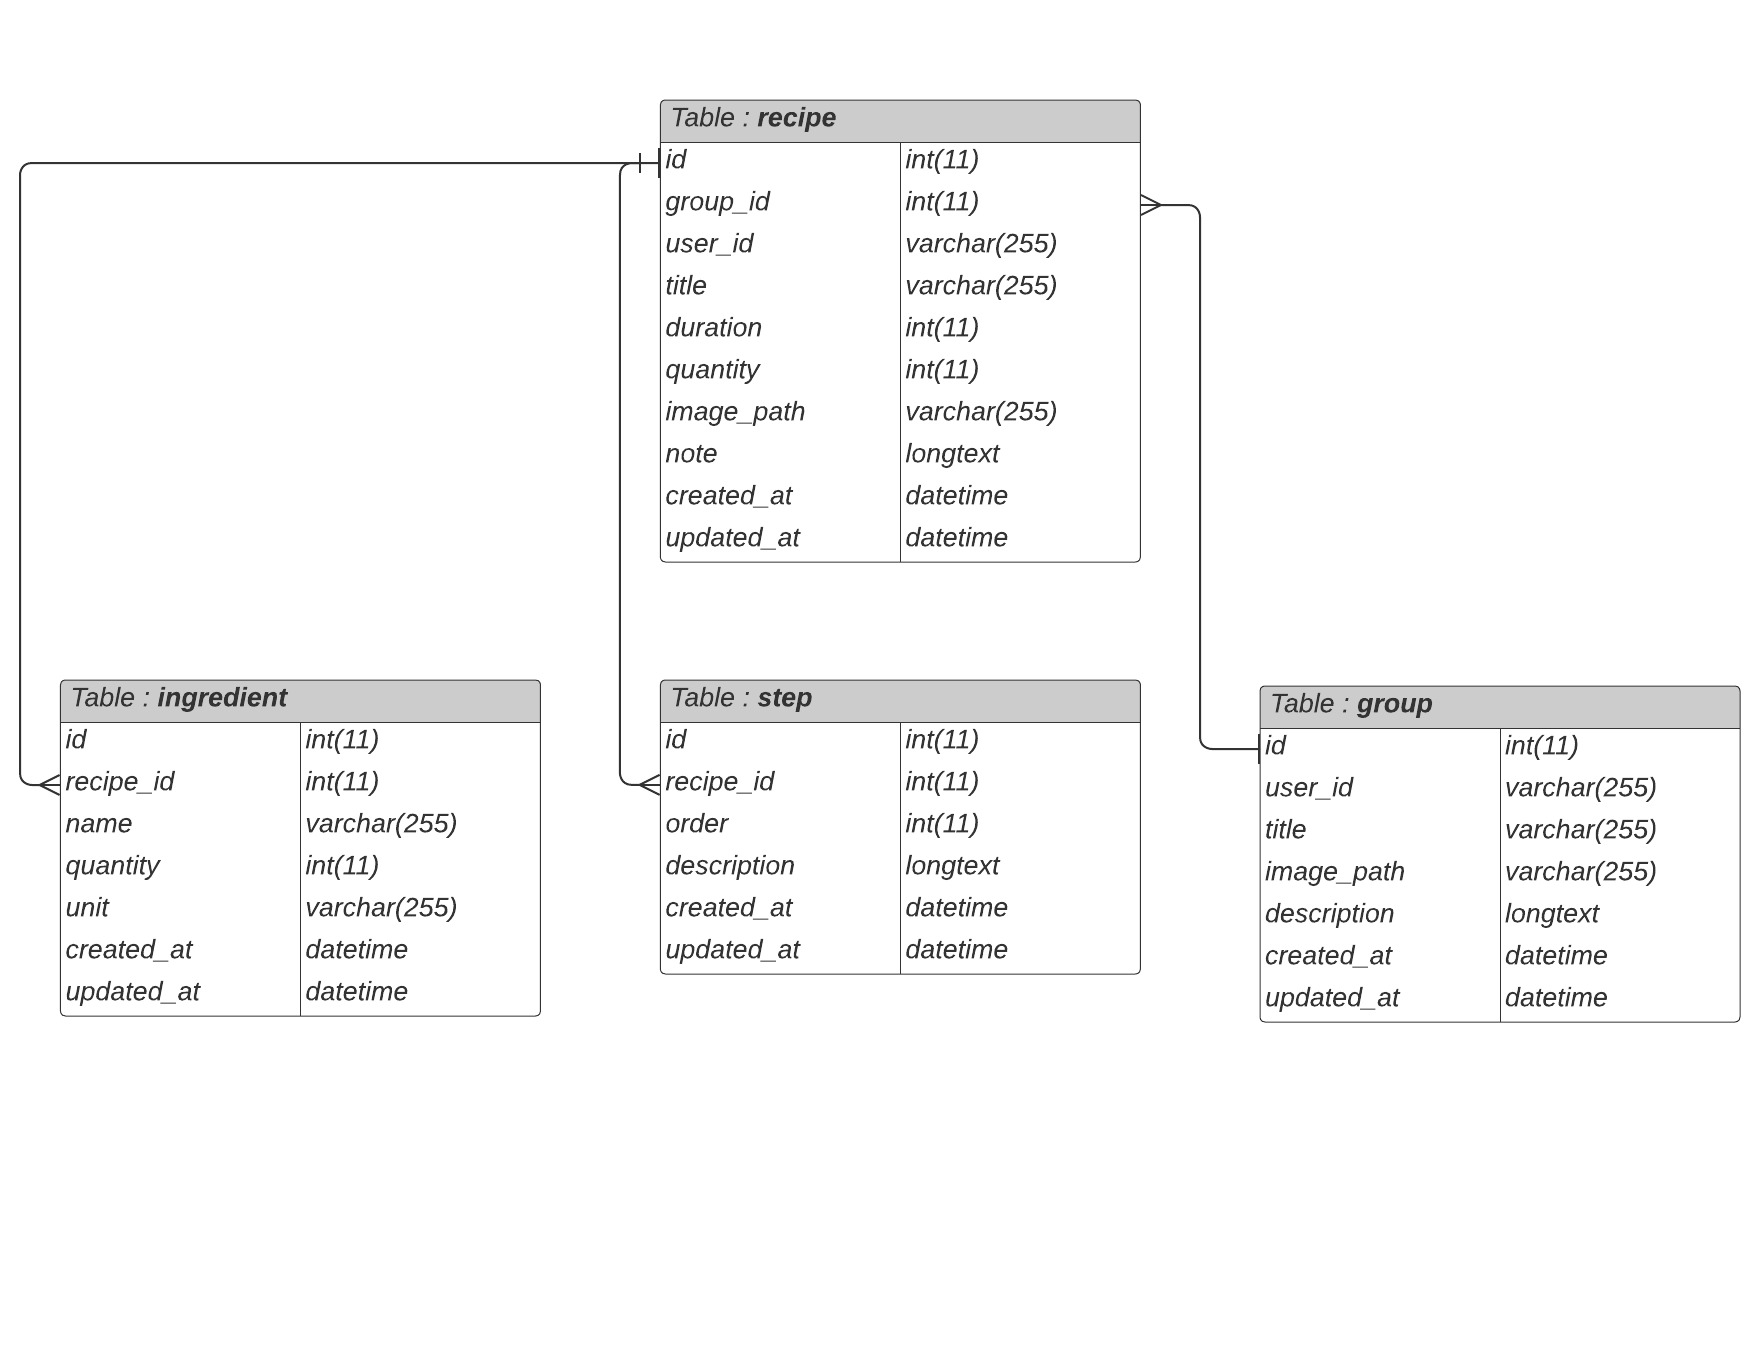
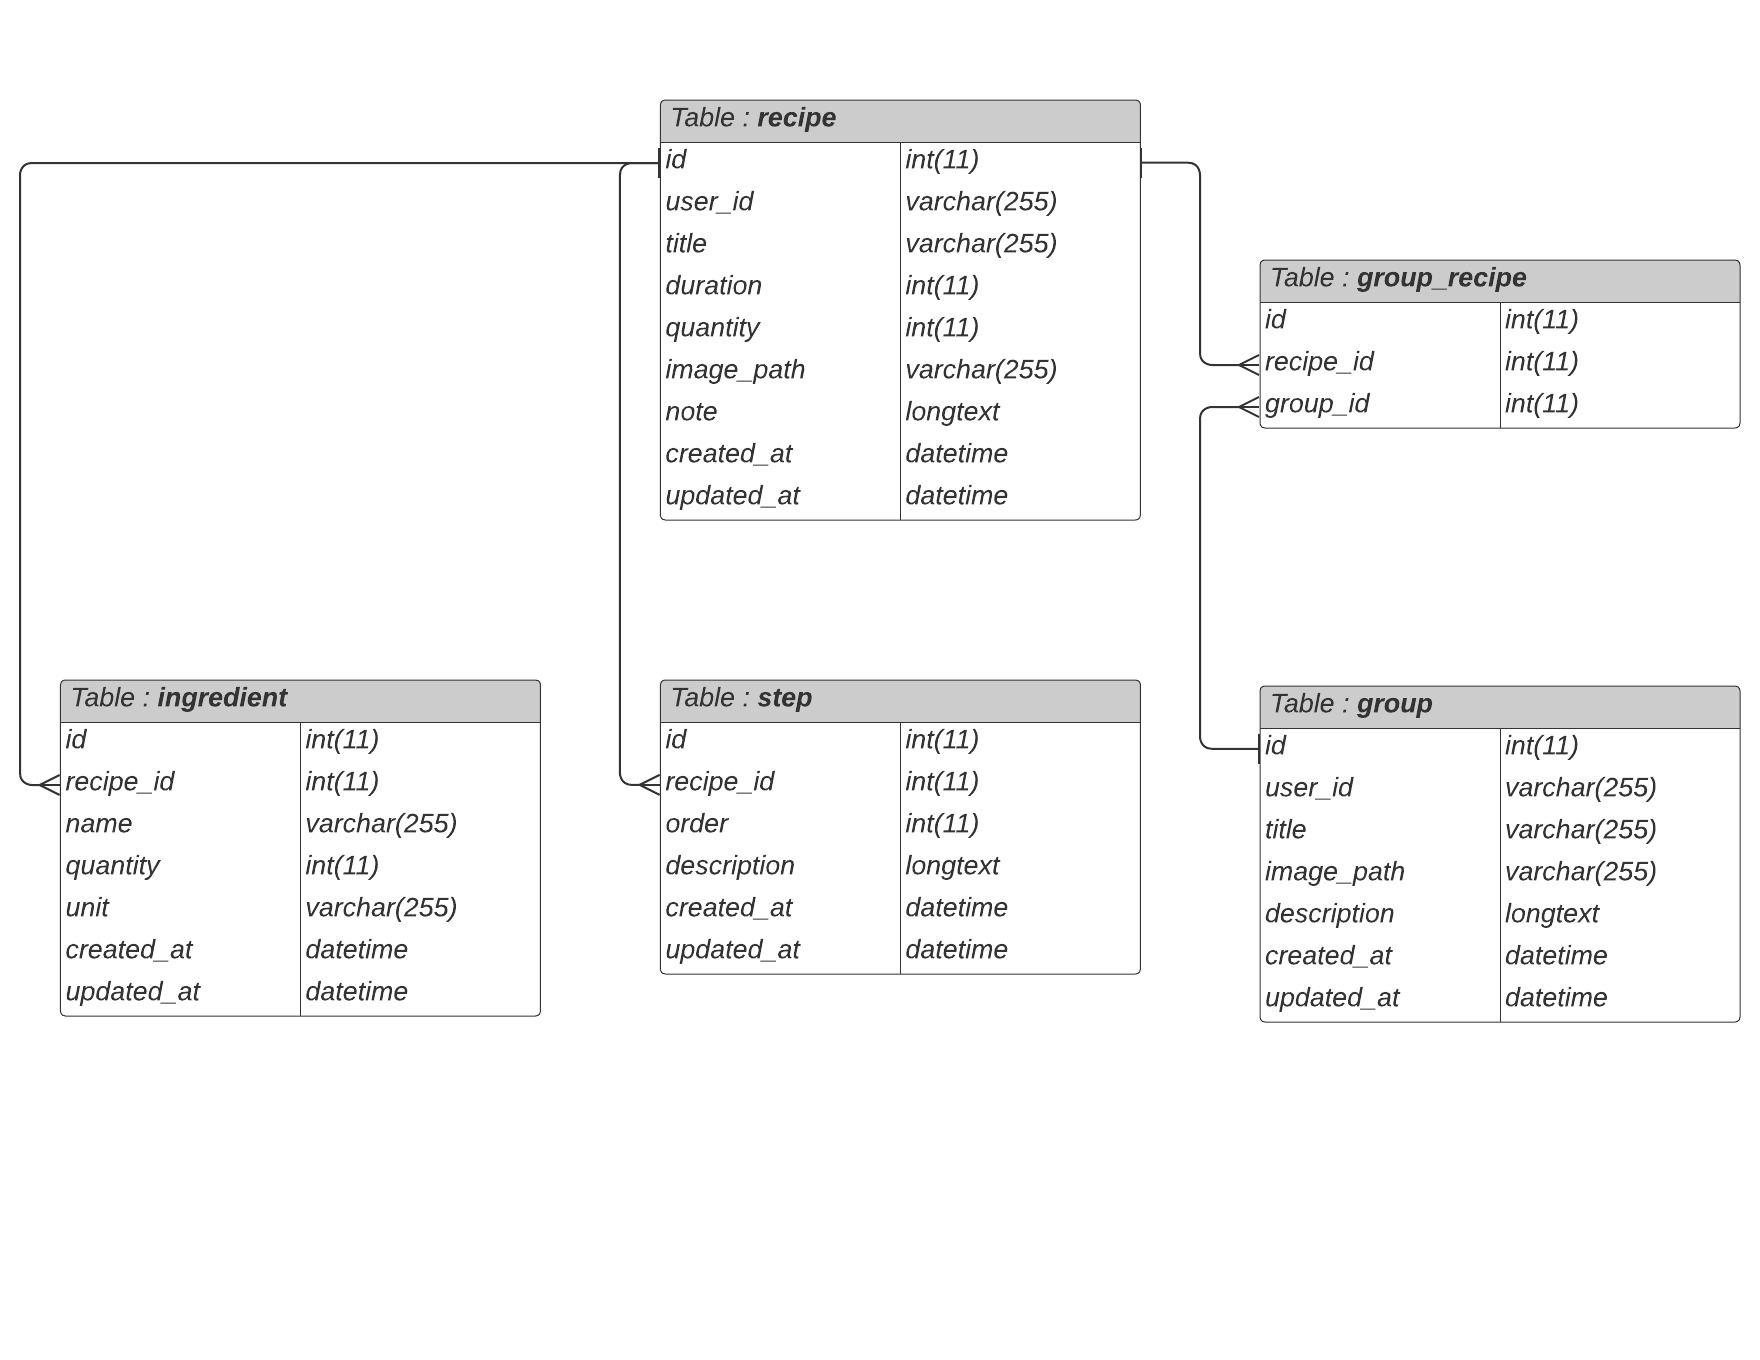
feat: protect controller

diff --git a/CookingByMe_back/Controllers/GroupController.cs b/CookingByMe_back/Controllers/GroupController.cs
@@ -2,12 +2,16 @@
 using CookingByMe_back.Core.IRepository;
 using CookingByMe_back.Models.GroupModels;
 using CookingByMe_back.Models.GroupRecipeModels;
+using Microsoft.AspNetCore.Authorization;
+using Microsoft.AspNetCore.Cors;
 using Microsoft.AspNetCore.Mvc;
 using System.Security.Claims;
 
 namespace CookingByMe_back.Controllers
 {
     [ApiController]
+    [Authorize]
+    [EnableCors]
     [Route("api/groupe")]
     public class GroupController : ControllerBase
     {

diff --git a/CookingByMe_back/Controllers/IngredientController.cs b/CookingByMe_back/Controllers/IngredientController.cs
@@ -1,11 +1,15 @@
 using AutoMapper;
 using CookingByMe_back.Core.IRepository;
 using CookingByMe_back.Models.IngredientModels;
+using Microsoft.AspNetCore.Authorization;
+using Microsoft.AspNetCore.Cors;
 using Microsoft.AspNetCore.Mvc;
 
 namespace CookingByMe_back.Controllers
 {
     [ApiController]
+    [Authorize]
+    [EnableCors]
     [Route("api/ingredient")]
     public class IngredientController : ControllerBase
     {

diff --git a/CookingByMe_back/Controllers/StepController.cs b/CookingByMe_back/Controllers/StepController.cs
@@ -1,11 +1,15 @@
 using AutoMapper;
 using CookingByMe_back.Core.IRepository;
 using CookingByMe_back.Models.StepModels;
+using Microsoft.AspNetCore.Authorization;
+using Microsoft.AspNetCore.Cors;
 using Microsoft.AspNetCore.Mvc;
 
 namespace CookingByMe_back.Controllers
 {
     [ApiController]
+    [Authorize]
+    [EnableCors]
     [Route("api/etape")]
     public class StepController : ControllerBase
     {

diff --git a/CookingByMe_back_repository/Repository/RecipeRepository.cs b/CookingByMe_back_repository/Repository/RecipeRepository.cs
@@ -30,12 +30,6 @@ namespace CookingByMe_back.Core.Repository
             return currentRecipe;
         }
 
-
-        public void CreateIngredient(Recipe recipe, Ingredient ingredient)
-        {
-            recipe.IngredientsList!.Add(ingredient);
-        }
-
         public void CreateRecipe(Recipe recipe)
         {
             Create(recipe);

diff --git a/CookingByMe_back_repository/IRepository/IRecipeRepository.cs b/CookingByMe_back_repository/IRepository/IRecipeRepository.cs
@@ -11,8 +11,6 @@ namespace CookingByMe_back.Core.IRepository
 
         public Task<Recipe?> GetRecipeByIdAsync(int id);
 
-        public void CreateIngredient(Recipe recipe, Ingredient ingredient);
-
         public void CreateRecipe(Recipe recipe);
 
         public void UpdateRecipe(Recipe recipe);

diff --git a/docs/dicoRoutes-CBM.md b/docs/dicoRoutes-CBM.md
@@ -3,23 +3,20 @@
 ## RECETTES
 | URL | Méthode HTTP | Controller | METHODE |
 |--|--|--|--|
-| /api/recette | `GET` | RecipeController | getAllAsync | 
-| /api/recette/`{id}` | `GET` | RecipeController | getByIdAsync`(id)` | 
-| /api/recette/`{id}` | `PUT` `PATCH` | RecipeController| updateAsync`(id)` | 
-| /api/recette | `POST` | RecipeController | addAsync | 
-| /api/recette/`{id}` | `DELETE` | RecipeController | deleteAsync`(id)` |
-| /api/recette/`{recipeId}`/ingredient | `GET` | RecipeController | getAllByRecipeIdAsync`(recipeId)` | 
-| /api/recette/`{recipeId}`/etape | `GET` | RecipeController | getAllByRecipeIdAsync(`recipeId`) | 
-| /api/recette/groupe/`{id}` | `GET` | RecipeController | getAllByGroupIdAsync`(id)` |
+| /api/recette | `GET` | RecipeController | GetAllRecipesAsync | 
+| /api/recette/`{id}` | `GET` | RecipeController | GetRecipeByIdAsync`(id)` | 
+| /api/recette/`{id}` | `PUT` `PATCH` | RecipeController| UpdateRecipe`(id)` | 
+| /api/recette | `POST` | RecipeController | CreateRecipe | 
+| /api/recette/`{id}` | `DELETE` | RecipeController | DeleteRecipe`(id)` |
 
 
 ## INGREDIENTS
 | URL | Méthode HTTP | Controller | METHODE |
 |--|--|--|--|
-| /api/ingredient/`{id}` | `GET` | IngredientController | getByIdAsync`(id)` | 
-| /api/ingredient/`{id}` | `PUT` `PATCH` | IngredientController| updateAsync`(id)` | 
+| /api/ingredient/`{id}` | `GET` | IngredientController | GetIngredientByIdAsync`(id)` | 
+| /api/ingredient/`{id}` | `PUT` `PATCH` | IngredientController| UpdateIngredient`(id)` | 
 | /api/ingredient | `POST` | IngredientController | addAsync | 
-| /api/ingredient/`{id}` | `DELETE` | IngredientController | deleteAsync`(id)` |
+| /api/ingredient/`{id}` | `DELETE` | IngredientController | DeleteIngredient`(id)` |
 
 
 ## ETAPES
@@ -27,15 +24,15 @@
 |--|--|--|--|
 | /api/etape/`{id}` | `GET` | StepController | getByIdAsync`(id)` | 
 | /api/etape/`{id}` | `PUT` `PATCH` | StepController| updateAsync`(id)` | 
-| /api/etape | `POST` | StepController | addAsync | 
-| /api/etape/`{id}` | `DELETE` | StepController | deleteAsync`(id)` |
+| /api/etape | `POST` | StepController | UpdtateStep | 
+| /api/etape/`{id}` | `DELETE` | StepController | DeleteStep`(id)` |
 
 
 ## GROUPES
 | URL | Méthode HTTP | Controller | METHODE |
 |--|--|--|--|
-| /api/groupe | `GET` | GroupController | getAllAsync | 
-| /api/groupe/`{id}` | `GET` | GroupController | getByIdAsync`(id)` | 
-| /api/groupe/`{id}` | `PUT` `PATCH` | GroupController| updateAsync`(id)` | 
-| /api/groupe | `POST` | GroupController | addAsync | 
-| /api/groupe/`{id}` | `DELETE` | GroupController | deleteAsync`(id)` |
+| /api/groupe | `GET` | GroupController | GetAllGroupsAsync | 
+| /api/groupe/`{id}` | `GET` | GroupController | GetGroupByIdAsync`(id)` | 
+| /api/groupe/`{id}` | `PUT` `PATCH` | GroupController| UpdateGroup`(id)` | 
+| /api/groupe | `POST` | GroupController | CreateGroup | 
+| /api/groupe/`{id}` | `DELETE` | GroupController | DeleteGroup`(id)` |

diff --git a/docs/dicoDonnes-CBM.md b/docs/dicoDonnes-CBM.md
@@ -6,7 +6,6 @@
 | Champ | Type | Spécificités | Description | 
 | - | - | - | - | 
 | id | INT | PRIMARY KEY, NOT NULL, UNSIGNED, AUTO_INCREMENT | L'identifiant de la recette | 
-| group_id | INT | NULL | L'identifiant du groupe de la recette, peut être nul | 
 | user_id | VARCHAR(255) | NOT NULL | L'identifiant de l'utilisateur | 
 | title | VARCHAR(255) | NOT NULL | Le titre de la recette | 
 | duration | INT | NULL | La durée de préparation de la recette, peut être nul | 
@@ -22,7 +21,7 @@
 | Champ | Type | Spécificités | Description | 
 | - | - | - | - | 
 | id | INT | PRIMARY KEY, NOT NULL, UNSIGNED, AUTO_INCREMENT | L'identifiant de l'ingredient | 
-| recipe_id | INT | NOT NULL | L'identifiant de la recette contenant l'ingredient | 
+| recipe_id | INT, FOREIGN KEY | NOT NULL | L'identifiant de la recette contenant l'ingredient | 
 | name | VARCHAR(255) | NOT NULL | Le nom de l'ingredient |
 | quantity | INT | NOT NULL | La quantité de l'ingredient | 
 | unit | VARCHAR(255) | NOT NULL | L'unité de la quantité de l'ingredient |
@@ -35,7 +34,7 @@
 | Champ | Type | Spécificités | Description | 
 | - | - | - | - | 
 | id | INT | PRIMARY KEY, NOT NULL, UNSIGNED, AUTO_INCREMENT | L'identifiant de l'étape | 
-| recipe_id | INT | NOT NULL | L'identifiant de la recette contenant l'étape | 
+| recipe_id | INT, FOREIGN KEY | NOT NULL | L'identifiant de la recette contenant l'étape | 
 | order | INT | NOT NULL | L'ordre de l'étape |
 | description | LONGTEXT | NOT NULL | La description de l'étape |
 | created_at | DATETIME | NOT NULL, DEFAULT CURRENT_DATETIME | La date de création de l'étape | 
@@ -53,3 +52,12 @@
 | description | LONGTEXT | NULL | Une description de l'utilisateur concernant le groupe, peut être nul | 
 | created_at | DATETIME | NOT NULL, DEFAULT CURRENT_DATETIME | La date de création du groupe | 
 | updated_at | DATETIME | NULL | La date de la dernière mise à jour du groupe, peut être nul |
+
+
+## GROUPES_RECETTE (`group_recipe`)
+
+| Champ | Type | Spécificités | Description | 
+| - | - | - | - | 
+| id | INT | PRIMARY KEY, NOT NULL, UNSIGNED, AUTO_INCREMENT | L'identifiant du groupe | 
+| recipe_id | INT, FOREIGN KEY | NOT NULL | L'identifiant de la recette contenue dans le groupe |
+| group_id | INT, FOREIGN KEY | NOT NULL | L'identifiant du groupe contenant la recette |

diff --git a/docs/mld-CBM-text.md b/docs/mld-CBM-text.md
@@ -1,4 +1,9 @@
 **RECIPE** (<ins>recipe code</ins>, user id, title, duration, quantity, image path, note, _group code_)  
-**INGREDIENT** (<ins>ingredient code</ins>, name, quantity, unit, _recipe code_)  
+
+**INGREDIENT** (<ins>ingredient code</ins>, name, quantity, unit, _recipe code_) 
+
 **STEP** (<ins>step code</ins>, order, description, _recipe code_)  
+
 **GROUP** (<ins>group code</ins>, user id, title, image path, description)
+
+**GROUP_RECIPE** (<ins>group recipe</ins>, _recipe code_, _group code_)
